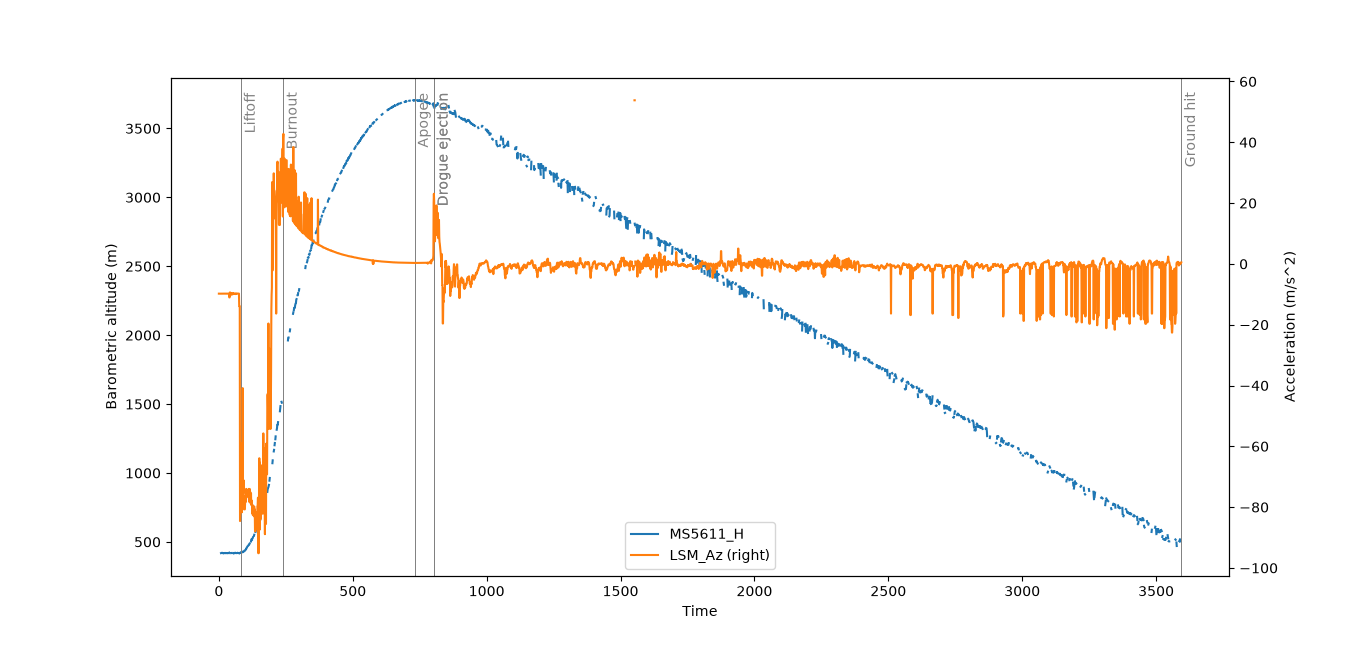
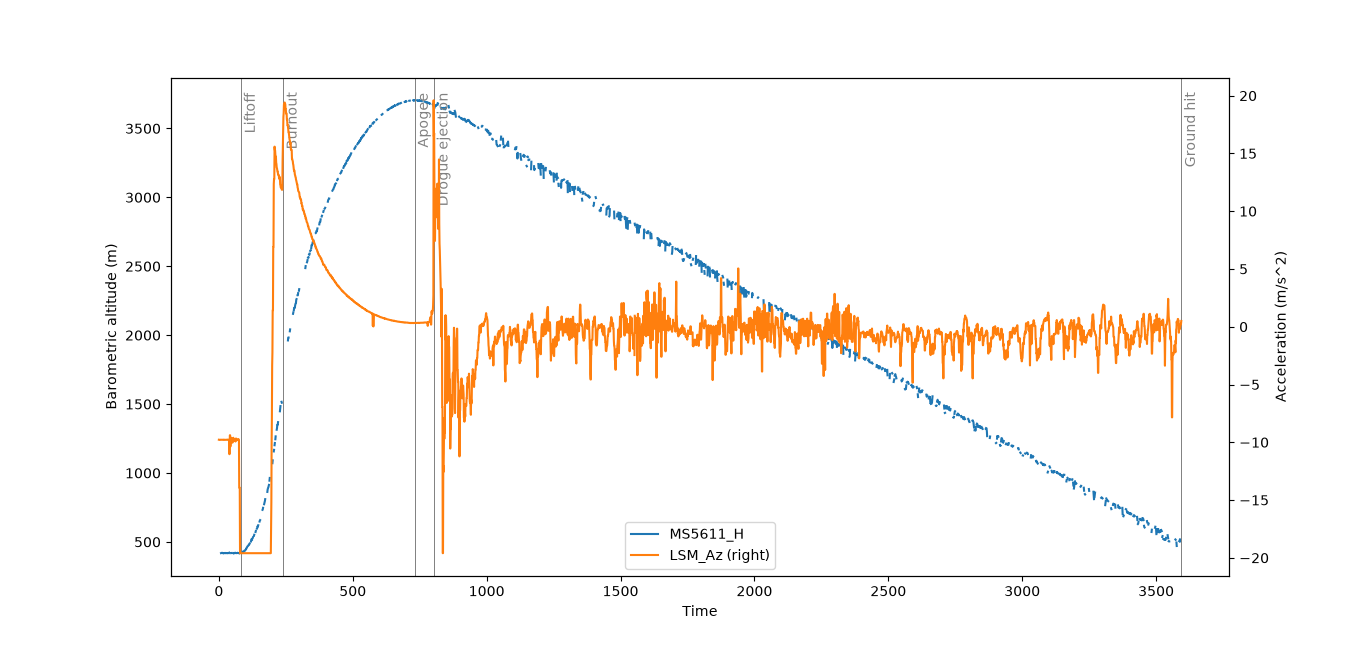
Solved g check problem

diff --git a/flight-data-analysis.py b/flight-data-analysis.py
@@ -4,6 +4,8 @@ import numpy as np
 
 DATA_FILE = "Datos de vuelo rompetechos 1.xlsx"
 
+g = 9.81
+
 APOGEE = 3705
 G_SCALE = 16
 
@@ -23,7 +25,7 @@ df = pd.read_excel(DATA_FILE, decimal=",")
 # Remove main junk data
 df.loc[df[BARO] > APOGEE, BARO] = np.nan
 
-g_condition = (df[G_ACCEL] >= 16) | (df[G_ACCEL] <= -16)
+g_condition = (df[G_ACCEL] >= G_SCALE*g) | (df[G_ACCEL] <= -G_SCALE*g)
 df.loc[g_condition, PRI_ACCEL] = df.loc[g_condition, G_ACCEL]
 
 # Remove other junk data
